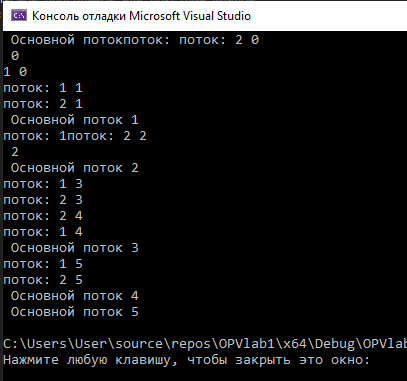
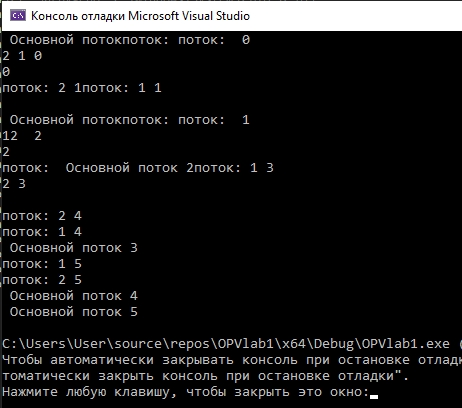
Add files via upload

diff --git a/lab1.2.cpp b/lab1.2.cpp
@@ -1,0 +1,29 @@
+#include <iostream>
+#include <thread>
+#include <chrono>
+using namespace std;
+
+void printnum(int n) {
+    for (size_t i = 0; i < 6; i++) {
+        cout << "поток: " << n << " " << i << "\n";
+        this_thread::sleep_for(chrono::milliseconds(300));
+    }
+}
+
+int main() {
+    setlocale(LC_ALL, "");
+
+    thread t1([]() { printnum(1); });
+    thread t2([]() { printnum(2); });
+
+    for (size_t i = 0; i < 6; i++) {
+        cout << " Основной поток" << " " << i << "\n";
+        this_thread::sleep_for(chrono::milliseconds(400));
+    }
+
+    t1.join();
+    t2.detach();
+
+    this_thread::sleep_for(chrono::milliseconds(2000));
+    return 0;
+}